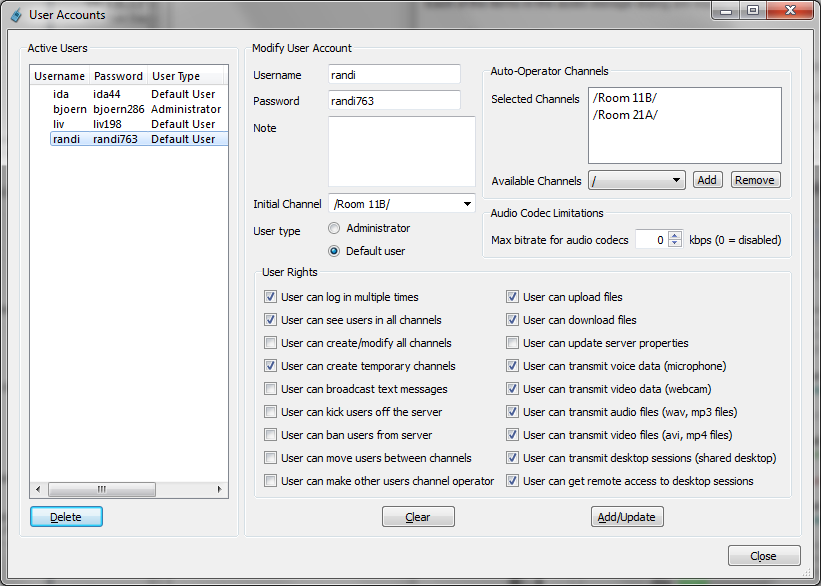
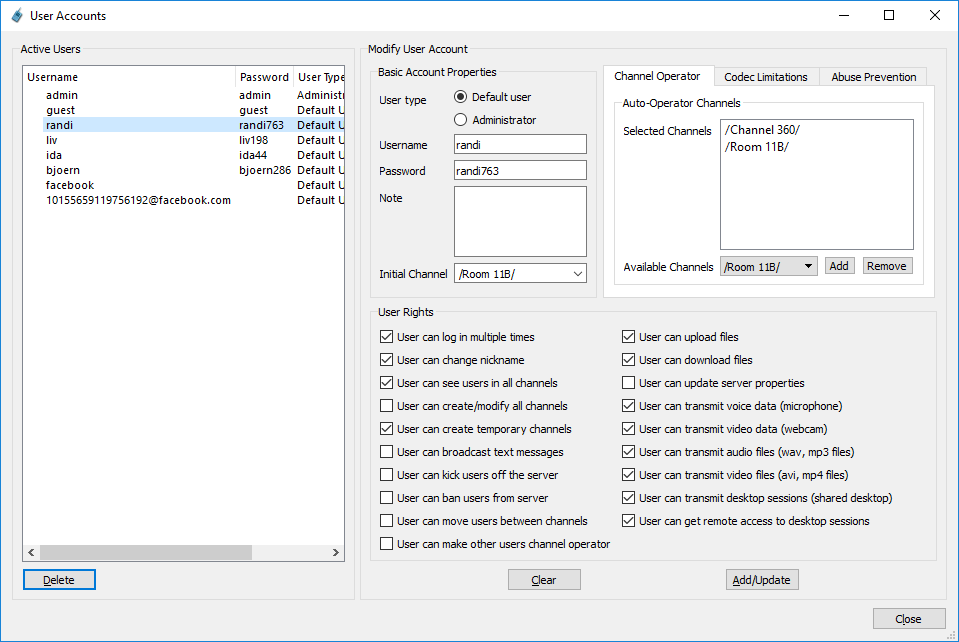
Facebook login explained

Changed region(s): [[0.0, 0.0, 1.0, 1.0], [0.7004, 0.8601, 0.8526, 0.9215]]

diff --git a/Manual/userinterface.md b/Manual/userinterface.md
@@ -292,12 +292,20 @@ green.
 If you manually want to connect to a TeamTalk server then the person
 who is running the server must provide the information for the fields
 Host IP-address, TCP port and UDP port along with a user account
-containing both username and password. To join a specific channel once
-you have logged on to the server can be done by filling out Channel
-and Password fields. Once you have filled out all the information you
-have been provided you can save the server to the Server List by
-filling the Entry name field and afterwards click **Save**. Finally click
-**Connect** to connect to the server.
+containing both username and password.
+
+If the username to log on to the server is "facebook" then a dialog
+will pop up asking you to log into Facebook. For more information on
+Facebook login read section @ref fbuseraccount. If at some point you
+want to log into a different Facebook account then hit Escape when the
+Facebook login dialog appears.
+
+To join a specific channel once you have logged on to the server can
+be done by filling out Channel and Password fields. Once you have
+filled out all the information you have been provided you can save the
+server to the Server List by filling the Entry name field and
+afterwards click **Save**. Finally click **Connect** to connect to the
+server.
 
 Learn more about setting up user accounts by read the section on
 [configuring TeamTalk servers](@ref teamtalkserver) or the section
@@ -368,10 +376,13 @@ yourself. The possible options are shown here.
 Each of the menu items in the Me-menu are described here:
 
 - **Change Nickname**
-    - The will change your name on the server. Your current nickname
-      is the one shown in bold in the channels view. The nickname is
-      simply a display name. It has no relation to your username (if
-      you have a user account).
+    - This will change your name on the server. Your current nickname
+      is the one shown in bold text in the channels view. The nickname
+      is simply a display name. It has no relation to your username
+      (if you have a user account). In @ref useraccountsdlg it's
+      possible to lock the nickname so it cannot be changed. This is
+      especially useful if you use a [Facebook login](@ref fbuseraccount)
+      and want to know who the people are.
 - **Change Status**
     - This is used to change your status mode, like e.g. Available,
       Away, Question-mode and set a message regarding your current
@@ -464,7 +475,10 @@ active.
 
 - **View User Information**
     - Use this menu item to get extended information about a user,
-      like e.g. username, user type and packet reception.
+    like e.g. username, user type and packet reception. If the user is
+    a Facebook user then it's possible open the user's profile
+    page. Read section [Facebook Login](@ref fbuseraccount) to learn
+    more about Facebook logins.
 - **Messages**
     - The menu item is for sending user to user text messages. A
       message dialog will pop up on the user's computer when you send
@@ -899,9 +913,11 @@ contains the items shown here:
 Each of the menu items in the Server-menu are described here.
 
 - **User Accounts**
-    - List all user accounts on the server and administrate existing
-      ones. Only administrators can do this. More is explained in the
-      [User Accounts Dialog](@ref useraccountsdlg).
+    - See the properties of the user account which is currently active
+      (your on login). If you're logged in as administrator you can
+      list all user accounts on the server and administrate existing
+      ones. More is explained in the [User Accounts Dialog](@ref
+      useraccountsdlg).
 
 - **Banned Users**
     - List all the users who are banned from the server. Users are
@@ -942,10 +958,10 @@ Each of the menu items in the Server-menu are described here.
 
 For users to log on to a TeamTalk server they must have a user
 account. Only users of user-type *Administrator* can create/modify
-user accounts. When the TeamTalk server is
-[configured](@ref teamtalkserver) initially an administrator account can
-be set up so further user accounts can be set up using this user
-accounts dialog. Here is shown the User Accounts-dialog.
+user accounts. When the TeamTalk server is [configured](@ref teamtalkserver)
+initially an administrator account can be set up so
+further user accounts can be created using this user accounts
+dialog. Here is shown the User Accounts-dialog.
 
 ![User Accounts Dialog](dlg_useraccounts.png "User Accounts")
 
@@ -953,9 +969,19 @@ The Active Users list contains all the user accounts on the
 server. The remaining items are explained here:
 
 - **Username**
-    - The username the new user account. 
+    - The username for the user account. A client logging on to the
+      TeamTalk server must provide this along with a password.
+    - If the username "facebook" is used then the clients using this
+      username will be asked to authenticate with
+      [Facebook](http://www.facebook.com) before logging in. Read
+      section [Facebook Login](@ref fbuseraccount) for more
+      information on setting up a Facebook login.
 - **Password**
-    - The password of the new user account. 
+    - The password of the new user account.
+    - For Facebook logins, i.e. username "facebook" or
+      postfix "@facebook.com", no password is required (the TeamTalk
+      server validates the user's authenticity with Facebook's login
+      service).
 - **Note**
     - Information about the user account can be put here.
 - **Initial Channel**
@@ -983,6 +1009,12 @@ server. The remaining items are explained here:
     - If enabled multi users can log in with the same username. If
       disabled and two log in with the same username, then the first
       person to log in will be kicked off the server.
+- **User can change nickname**
+    - If unchecked then the user cannot change the client's nickname
+      using the [Change Nickname menu item](@ref memenu). This can
+      also be used if users show be force to use their Facebook
+      profile name as nickname.  See section @ref fbuseraccount for
+      more information on using Facebook accounts.
 - **User can see users in all channels**
     - If unchecked the user can only see users in the current channel.
 - **User can create/modify all channels**
@@ -1040,6 +1072,31 @@ server. The remaining items are explained here:
 - **Delete**
     - Delete the seleced user account in the Active Users list.
 
+## Facebook Login {#fbuseraccount}
+
+By specifying the username "facebook" will force the clients using
+this user account to log in using their Facebook account. The TeamTalk
+server will then authenticate that the login is valid using Facebook's
+login service. Section @ref fbserver explains what is required for a
+TeamTalk server to handle Facebook logins.
+
+When a Facebook user is logged into the TeamTalk server then their
+username will appear as their Facebook user ID followed by
+@@facebook.com. Here's an example:
+
+![User Information Dialog](dlg_userinfo.png "User Information")
+
+If you want one Facebook user to have special user-rights on the
+TeamTalk server then you can create a user account with the Facebook
+user's account name. In the above example the username for the 
+account would be "10155659119756192@facebook.com".
+
+The dialog picture in section [User Accounts](@ref useraccountsdlg)
+shows 10155659119756192@facebook.com as an active user account.
+
+Note that by not allowing users to change nickname (when creating a
+Facebook user account) will cause their Facebook profile name to
+appear as their nickname on the TeamTalk server.
 
 ## Banned Users Dialog {#bannedusersdlg}
 

diff --git a/Manual/server.md b/Manual/server.md
@@ -14,7 +14,7 @@ Here's an overview of this section:
   - [Installing multiple TeamTalk NT Services](@ref multintservice)
 - [TeamTalk Server for Linux](@ref tt5srvlinux)
 - [TeamTalk Server for Mac OS X](@ref tt5srvmac)
-
+- [TeamTalk Server with Facebook Login](@ref fbserver)
 
 # TeamTalk Server for Windows {#winserver}
 
@@ -128,3 +128,15 @@ To start the TeamTalk server setup-wizard type:\verbatim
 When running the setup-wizard then make sure the executable is run at
 a writable location so it's possible for the setup-wizard to save its
 changes to disk.
+
+# TeamTalk Server with Facebook Login {#fbserver}
+
+If a TeamTalk server is set up with a user account that has the
+username "facebook" then this will force the TeamTalk server to
+authenticate the user's credentials with Facebook's login service. For
+the TeamTalk server to do this it must have internet access and be
+able to do DNS lookups.
+
+Read section [Facebook Login](@ref fbuseraccount) for more information
+on how to set up a Facebook account.
+
